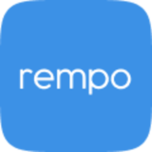
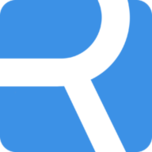
about section and navbar updated

diff --git a/Rempo_Web/src/components/Ui/Logo/Logo.jsx b/Rempo_Web/src/components/Ui/Logo/Logo.jsx
@@ -1,0 +1,23 @@
+import React from "react";
+import classes from "./Logo.module.css";
+
+const Logo = () => {
+  return (
+    <>
+      <div>
+        <svg
+          className={classes.logo}
+          width="161"
+          height="37"
+          viewBox="0 0 161 37"
+          fill="none"
+          xmlns="http://www.w3.org/2000/svg"
+        >
+          <path d="M4.28589 3.48184C4.46263 3.14394 4.71301 2.77665 5.03703 2.37999C5.37578 1.98332 5.7808 1.61604 6.2521 1.27814C6.7234 0.940243 7.26098 0.661107 7.86483 0.440738C8.46869 0.205677 9.13146 0.0881467 9.85314 0.0881467C10.6485 0.0881467 11.3628 0.124875 11.9961 0.198331C12.6441 0.257097 13.2553 0.374628 13.8297 0.550923C14.4041 0.712527 14.9564 0.940243 15.4867 1.23407C16.0316 1.5132 16.5986 1.87314 17.1878 2.31388C17.3645 2.4461 17.556 2.61505 17.7622 2.82073C17.9831 3.02641 18.0935 3.26881 18.0935 3.54795C18.0935 3.70955 18.0567 3.85646 17.9831 3.98868L16.6796 5.99404C16.4734 6.2438 16.2672 6.36867 16.0611 6.36867C15.9432 6.36867 15.8328 6.33194 15.7297 6.25849C15.6266 6.17034 15.5014 6.07485 15.3541 5.97201C14.441 5.35497 13.5499 4.90689 12.6809 4.62776C11.8267 4.33393 10.9136 4.18702 9.9415 4.18702C9.2051 4.18702 8.49815 4.32658 7.82065 4.60572C7.14316 4.88485 6.5393 5.28886 6.00909 5.81775C5.4936 6.33194 5.07385 6.97101 4.74983 7.73496C4.44054 8.48422 4.28589 9.33631 4.28589 10.2912V27.5462C4.28589 28.1926 3.96187 28.5158 3.31383 28.5158H1.01624C0.338748 28.5158 0 28.1926 0 27.5462V1.49851C0 1.20469 0.095733 0.969625 0.287199 0.79333C0.478665 0.617033 0.706951 0.528884 0.972058 0.528884H3.26965C3.57894 0.528884 3.82196 0.624378 3.99869 0.815367C4.19016 1.00635 4.28589 1.23407 4.28589 1.49851V3.48184ZM41.5821 22.103C41.7146 21.9855 41.8545 21.8753 42.0018 21.7725C42.1638 21.6696 42.3259 21.6182 42.4879 21.6182C42.7088 21.6182 42.9223 21.7504 43.1285 22.0149C43.4231 22.4116 43.6587 22.7348 43.8355 22.9845C44.027 23.2343 44.1816 23.4326 44.2994 23.5795C44.4172 23.7411 44.5056 23.8586 44.5645 23.9321C44.6382 24.0203 44.6971 24.1157 44.7413 24.2186C44.7855 24.3067 44.8075 24.4096 44.8075 24.5271C44.8075 24.6887 44.7413 24.865 44.6087 25.056C44.4909 25.2323 44.2773 25.4453 43.968 25.6951C43.3347 26.1946 42.672 26.65 41.9797 27.0613C41.3022 27.458 40.5879 27.8033 39.8368 28.0971C39.0857 28.3909 38.2903 28.6186 37.4508 28.7802C36.6261 28.9418 35.7497 29.0226 34.8219 29.0226C33.5111 29.0226 32.2444 28.8537 31.022 28.5158C29.7996 28.1632 28.6434 27.671 27.5535 27.0393C26.4784 26.3929 25.4916 25.6289 24.5932 24.7475C23.7095 23.866 22.9436 22.889 22.2956 21.8166C21.6475 20.7441 21.1468 19.5982 20.7933 18.3788C20.4398 17.1447 20.2631 15.8666 20.2631 14.5444C20.2631 13.2222 20.4251 11.944 20.7491 10.7099C21.0879 9.47588 21.5592 8.32261 22.163 7.25015C22.7816 6.17769 23.5254 5.20072 24.3943 4.31924C25.2633 3.43776 26.2353 2.68116 27.3105 2.04943C28.4004 1.41771 29.5713 0.932897 30.8232 0.594996C32.0898 0.242406 33.4227 0.0661114 34.8219 0.0661114C35.9265 0.0661114 37.0237 0.190987 38.1136 0.440738C39.2035 0.690489 40.2492 1.05777 41.2507 1.54259C42.2522 2.01271 43.1874 2.60036 44.0564 3.30554C44.9401 4.01072 45.7281 4.81874 46.4203 5.7296C47.3629 6.99305 48.0625 8.4328 48.519 10.0488C48.9756 11.6649 49.1892 13.5233 49.1597 15.6242C49.1597 16.3147 48.8357 16.6599 48.1877 16.6599H24.9024C25.1528 17.8352 25.5873 18.9224 26.2059 19.9214C26.8392 20.9204 27.5903 21.7945 28.4593 22.5438C29.343 23.2783 30.3224 23.8586 31.3976 24.2847C32.4727 24.6961 33.5847 24.9017 34.7335 24.9017C35.5435 24.9017 36.2726 24.8283 36.9206 24.6814C37.5834 24.5198 38.1799 24.3141 38.7101 24.0643C39.255 23.7999 39.7558 23.5061 40.2124 23.1828C40.6689 22.8449 41.1108 22.4997 41.5379 22.1471L41.5821 22.103ZM29.4755 5.79571C28.3562 6.54497 27.3915 7.49256 26.5815 8.63848C25.7714 9.7697 25.2191 11.0185 24.9245 12.3848H44.8959C44.7339 11.1654 44.351 10.0562 43.7471 9.05718C43.158 8.05817 42.4142 7.20608 41.5158 6.50089C40.6174 5.79571 39.6011 5.25213 38.4671 4.87016C37.3477 4.4735 36.1842 4.27516 34.9765 4.27516C34.0192 4.27516 33.0692 4.40004 32.1266 4.64979C31.1987 4.89954 30.315 5.28152 29.4755 5.79571ZM58.0988 3.79035C58.5112 3.27616 58.953 2.79869 59.4243 2.35795C59.8956 1.90252 60.4185 1.50586 60.9929 1.16796C61.582 0.830058 62.2448 0.565614 62.9812 0.374627C63.7176 0.18364 64.5718 0.0881467 65.5439 0.0881467C67.8709 0.0881467 69.7709 0.52154 71.2437 1.38833C72.7165 2.24042 73.8948 3.48918 74.7784 5.1346C75.1908 4.20905 75.721 3.42307 76.3691 2.77665C77.0319 2.13024 77.7683 1.6087 78.5783 1.21203C79.4031 0.800676 80.2794 0.506848 81.2073 0.330554C82.1496 0.154258 83.1069 0.0661114 84.0789 0.0661114C85.8905 0.0661114 87.4885 0.381974 88.873 1.0137C90.2574 1.63073 91.4136 2.48283 92.3414 3.56998C93.284 4.64245 93.991 5.9059 94.4623 7.36033C94.9483 8.81477 95.1913 10.372 95.1913 12.0322V26.9952C95.1913 27.4947 95.0588 27.8694 94.7937 28.1191C94.5433 28.3689 94.2193 28.4937 93.8216 28.4937H92.1868C91.6418 28.4937 91.2884 28.3836 91.1264 28.1632C90.9791 27.9428 90.9054 27.5755 90.9054 27.0613V12.0322C90.9054 11.1507 90.7803 10.2545 90.5299 9.34366C90.2942 8.41811 89.8966 7.5807 89.3369 6.83145C88.7919 6.08219 88.0629 5.4725 87.1498 5.00238C86.2366 4.53226 85.1173 4.2972 83.7917 4.2972C82.6724 4.2972 81.6709 4.4735 80.7875 4.82609C79.9038 5.17868 79.1527 5.69287 78.5341 6.36867C77.9303 7.02978 77.4663 7.84515 77.1423 8.81477C76.8183 9.7697 76.6563 10.8495 76.6563 12.0542V27.0173C76.6563 27.5168 76.5237 27.8914 76.2586 28.1412C76.0082 28.3909 75.6842 28.5158 75.2866 28.5158H73.6517C73.1068 28.5158 72.7533 28.4056 72.5913 28.1852C72.444 27.9649 72.3704 27.5976 72.3704 27.0834V12.0542C72.3704 11.1727 72.2452 10.2766 71.9948 9.36569C71.7592 8.44014 71.3615 7.60274 70.8018 6.85348C70.2569 6.10423 69.5279 5.49454 68.6147 5.02442C67.7016 4.5543 66.5822 4.31924 65.2567 4.31924C64.4172 4.31924 63.5703 4.4735 62.7161 4.78201C61.8619 5.07584 61.0886 5.51658 60.3964 6.10423C59.7189 6.69188 59.1666 7.4191 58.7395 8.28588C58.3124 9.15267 58.0988 10.1443 58.0988 11.2609V27.5462C58.0988 28.1926 57.7748 28.5158 57.1268 28.5158H54.8512C54.159 28.5158 53.8129 28.1926 53.8129 27.5462V1.49851C53.8129 1.20469 53.9086 0.969625 54.1001 0.79333C54.2916 0.617033 54.5199 0.528884 54.785 0.528884H57.0826C57.3919 0.528884 57.6349 0.624378 57.8116 0.815367C58.0031 1.00635 58.0988 1.23407 58.0988 1.49851V3.79035ZM104.431 4.16498C105.697 2.87215 107.17 1.85845 108.849 1.12388C110.528 0.374628 112.347 0 114.306 0C115.632 0 116.906 0.176295 118.128 0.528884C119.35 0.866786 120.499 1.3516 121.574 1.98332C122.65 2.61505 123.629 3.37165 124.513 4.25313C125.396 5.1346 126.155 6.11158 126.788 7.18404C127.436 8.2565 127.93 9.40977 128.268 10.6438C128.622 11.8632 128.799 13.134 128.799 14.4562C128.799 15.7784 128.622 17.0566 128.268 18.2907C127.93 19.51 127.436 20.6633 126.788 21.7504C126.155 22.8229 125.396 23.7999 124.513 24.6814C123.629 25.5628 122.65 26.3268 121.574 26.9732C120.499 27.6049 119.343 28.0971 118.106 28.4497C116.883 28.7876 115.617 28.9565 114.306 28.9565C112.347 28.9565 110.528 28.5892 108.849 27.8547C107.17 27.1054 105.697 26.0844 104.431 24.7915V36.0304C104.431 36.2948 104.335 36.5225 104.144 36.7135C103.967 36.9045 103.724 37 103.415 37H101.117C100.852 37 100.624 36.9119 100.432 36.7356C100.241 36.5593 100.145 36.3242 100.145 36.0304V1.47647C100.145 0.830058 100.491 0.506849 101.183 0.506849H103.459C104.107 0.506849 104.431 0.830058 104.431 1.47647V4.16498ZM104.21 14.4562C104.21 15.8225 104.475 17.1374 105.005 18.4008C105.535 19.6643 106.257 20.7808 107.17 21.7504C108.083 22.7054 109.151 23.4693 110.374 24.0423C111.596 24.6152 112.907 24.9017 114.306 24.9017C115.69 24.9017 116.987 24.6152 118.194 24.0423C119.417 23.4693 120.477 22.7054 121.376 21.7504C122.289 20.7808 123.003 19.6643 123.518 18.4008C124.049 17.1374 124.314 15.8225 124.314 14.4562C124.314 13.0752 124.049 11.7604 123.518 10.5116C123.003 9.24816 122.289 8.14632 121.376 7.20608C120.477 6.26583 119.417 5.51658 118.194 4.95831C116.987 4.40004 115.69 4.12091 114.306 4.12091C112.907 4.12091 111.596 4.40004 110.374 4.95831C109.151 5.51658 108.083 6.26583 107.17 7.20608C106.257 8.14632 105.535 9.24816 105.005 10.5116C104.475 11.7604 104.21 13.0752 104.21 14.4562ZM132.015 14.5664C132.015 12.5831 132.398 10.7173 133.164 8.96903C133.944 7.20608 134.99 5.66349 136.301 4.34128C137.626 3.01906 139.165 1.97598 140.918 1.21203C142.671 0.448084 144.534 0.0661114 146.508 0.0661114C147.818 0.0661114 149.085 0.242406 150.307 0.594996C151.545 0.932897 152.701 1.42506 153.776 2.07147C154.851 2.7032 155.83 3.4598 156.714 4.34128C157.598 5.22275 158.356 6.20707 158.99 7.29422C159.638 8.36669 160.131 9.51995 160.47 10.754C160.823 11.9734 161 13.2442 161 14.5664C161 15.8886 160.823 17.1668 160.47 18.4008C160.131 19.6202 159.638 20.7661 158.99 21.8386C158.356 22.9111 157.598 23.888 156.714 24.7695C155.83 25.651 154.851 26.4076 153.776 27.0393C152.701 27.671 151.545 28.1632 150.307 28.5158C149.085 28.8537 147.818 29.0226 146.508 29.0226C145.197 29.0226 143.923 28.8537 142.686 28.5158C141.463 28.1632 140.314 27.671 139.239 27.0393C138.164 26.4076 137.185 25.651 136.301 24.7695C135.417 23.888 134.659 22.9111 134.025 21.8386C133.392 20.7661 132.899 19.6202 132.545 18.4008C132.192 17.1668 132.015 15.8886 132.015 14.5664ZM136.411 14.5664C136.411 15.9621 136.676 17.2843 137.207 18.5331C137.737 19.7818 138.459 20.8763 139.372 21.8166C140.285 22.7568 141.353 23.5061 142.575 24.0643C143.798 24.6226 145.108 24.9017 146.508 24.9017C147.892 24.9017 149.188 24.6226 150.396 24.0643C151.618 23.5061 152.679 22.7568 153.577 21.8166C154.49 20.8763 155.204 19.7818 155.72 18.5331C156.25 17.2843 156.515 15.9621 156.515 14.5664C156.515 13.2001 156.25 11.8853 155.72 10.6218C155.204 9.35835 154.49 8.24916 153.577 7.29422C152.679 6.3246 151.618 5.55331 150.396 4.98035C149.188 4.40739 147.892 4.12091 146.508 4.12091C145.108 4.12091 143.798 4.40739 142.575 4.98035C141.353 5.55331 140.285 6.3246 139.372 7.29422C138.459 8.24916 137.737 9.35835 137.207 10.6218C136.676 11.8853 136.411 13.2001 136.411 14.5664Z" />
+        </svg>
+      </div>
+    </>
+  );
+};
+
+export default Logo;

diff --git a/Rempo_Web/src/components/Navbar/Navbar.module.css b/Rempo_Web/src/components/Navbar/Navbar.module.css
@@ -9,7 +9,7 @@
   z-index: 20;
   padding: 0 30px;
   padding-top: 5px;
-  background-color: #fff;
+  background-color: #ffffffb7;
 }
 .navbar_logo {
   width: 180px;
@@ -42,9 +42,10 @@
 .nav_links {
   color: #000;
   text-decoration: none;
-  padding: 0.5rem 1rem;
+  padding: 0.5rem 0.5rem;
   height: 100%;
   border-bottom: 3px solid transparent;
+  white-space: nowrap;
 }
 .fa-code {
   margin-left: 1rem;
@@ -55,7 +56,7 @@
   margin-right: 1rem;
 }
 .fa .fas {
-  color: #000;
+  color: #fff;
 }
 .nav_item:after {
   content: "";
@@ -68,12 +69,12 @@
 
 .nav_item:hover:after {
   width: 100%;
-  background: #ffdd40;
+  background: #3c91e6;
 }
 
 .nav_item .active {
-  color: #ffdd40;
-  border: 1px solid #ffdd40;
+  color: #3c91e6;
+  border: 1px solid #3c91e6;
 }
 
 .nav_icon {
@@ -83,7 +84,7 @@
 @media screen and (max-width: 960px) {
   .navbar {
     padding: 0;
-    background: #8df5ff;
+    background: #3c91e6;
   }
   .nav_menu {
     display: flex;
@@ -106,7 +107,7 @@
     z-index: 1;
   }
   .nav_item .active {
-    color: #ffdd40;
+    color: #3c91e6;
     border: none;
   }
   .nav_links {
@@ -124,6 +125,6 @@
     transform: translate(-100%, 60%);
     font-size: 1.8rem;
     cursor: pointer;
-    color: #000;
+    color: #fff;
   }
 }

diff --git a/Rempo_Web/src/components/Landing/Landing.jsx b/Rempo_Web/src/components/Landing/Landing.jsx
@@ -2,6 +2,7 @@ import React from "react";
 import classes from "./Landing.module.css";
 import landing from "../../assets/landing.png";
 import Card from "../Ui/Card/Card";
+import { Button } from "../Ui";
 
 const Landing = () => {
   return (
@@ -9,7 +10,12 @@ const Landing = () => {
       <div className={classes.landing_container}>
         <img className={classes.image} src={landing} alt="landing" />
         <div className={classes.main_div}>
-          <Card width="50vw" height="200px" radius="15px" />
+          <Card width="50vw" height="200px" radius="15px">
+            <div className={classes.btn_container}>
+              <Button label="List a Plot" />
+              <Button filled label="List a Layout" />
+            </div>
+          </Card>
         </div>
       </div>
     </>

diff --git a/Rempo_Web/src/components/Navbar/Navbar.jsx b/Rempo_Web/src/components/Navbar/Navbar.jsx
@@ -1,7 +1,7 @@
 import React, { useState } from "react";
 import { NavLink } from "react-router-dom";
 import classes from "./Navbar.module.css";
-import logo from "../../assets/nav_logo.png";
+import Logo from "../Ui/Logo/Logo";
 
 function Navbar() {
   const [click, setClick] = useState(false);
@@ -12,7 +12,7 @@ function Navbar() {
       <nav className={classes.navbar}>
         <div className={classes.nav_container}>
           <NavLink exact to="/" className={classes.nav_logo}>
-            <img className={classes.navbar_logo} src={logo} alt="logo" />
+            <Logo />
           </NavLink>
 
           <ul

diff --git a/Rempo_Web/src/components/Ui/Button/Button.module.css b/Rempo_Web/src/components/Ui/Button/Button.module.css
@@ -43,11 +43,12 @@
 /* Filled Styles */
 
 .fill {
-  color: #4385f5;
+  color: #ffffff;
+  background-color: #4385f5;
 }
 .fill::before {
-  background: #4385f5;
+  background: #ffffff;
 }
 .fill:hover {
-  color: #fff;
+  color: #4385f5;
 }

diff --git a/Rempo_Web/src/components/Landing/Landing.module.css b/Rempo_Web/src/components/Landing/Landing.module.css
@@ -15,3 +15,9 @@
   height: 467px;
   filter: grayscale(0.15);
 }
+.btn_container {
+  display: flex;
+  justify-content: space-evenly;
+  align-items: center;
+  height: inherit;
+}

diff --git a/Rempo_Web/src/components/Ui/Button/Button.jsx b/Rempo_Web/src/components/Ui/Button/Button.jsx
@@ -6,7 +6,7 @@ const Button = ({
   onClick,
   label = "Label Missing",
   disabled,
-  filled = true,
+  filled,
   padding = "0.5em 1.5em",
   fontSize = "17px",
 }) => {

diff --git a/Rempo_Web/src/components/Ui/Logo/Logo.module.css b/Rempo_Web/src/components/Ui/Logo/Logo.module.css
@@ -1,0 +1,8 @@
+.logo {
+  fill: #3c91e6;
+}
+@media screen and (max-width: 960px) {
+  .logo {
+    fill: #fff;
+  }
+}
